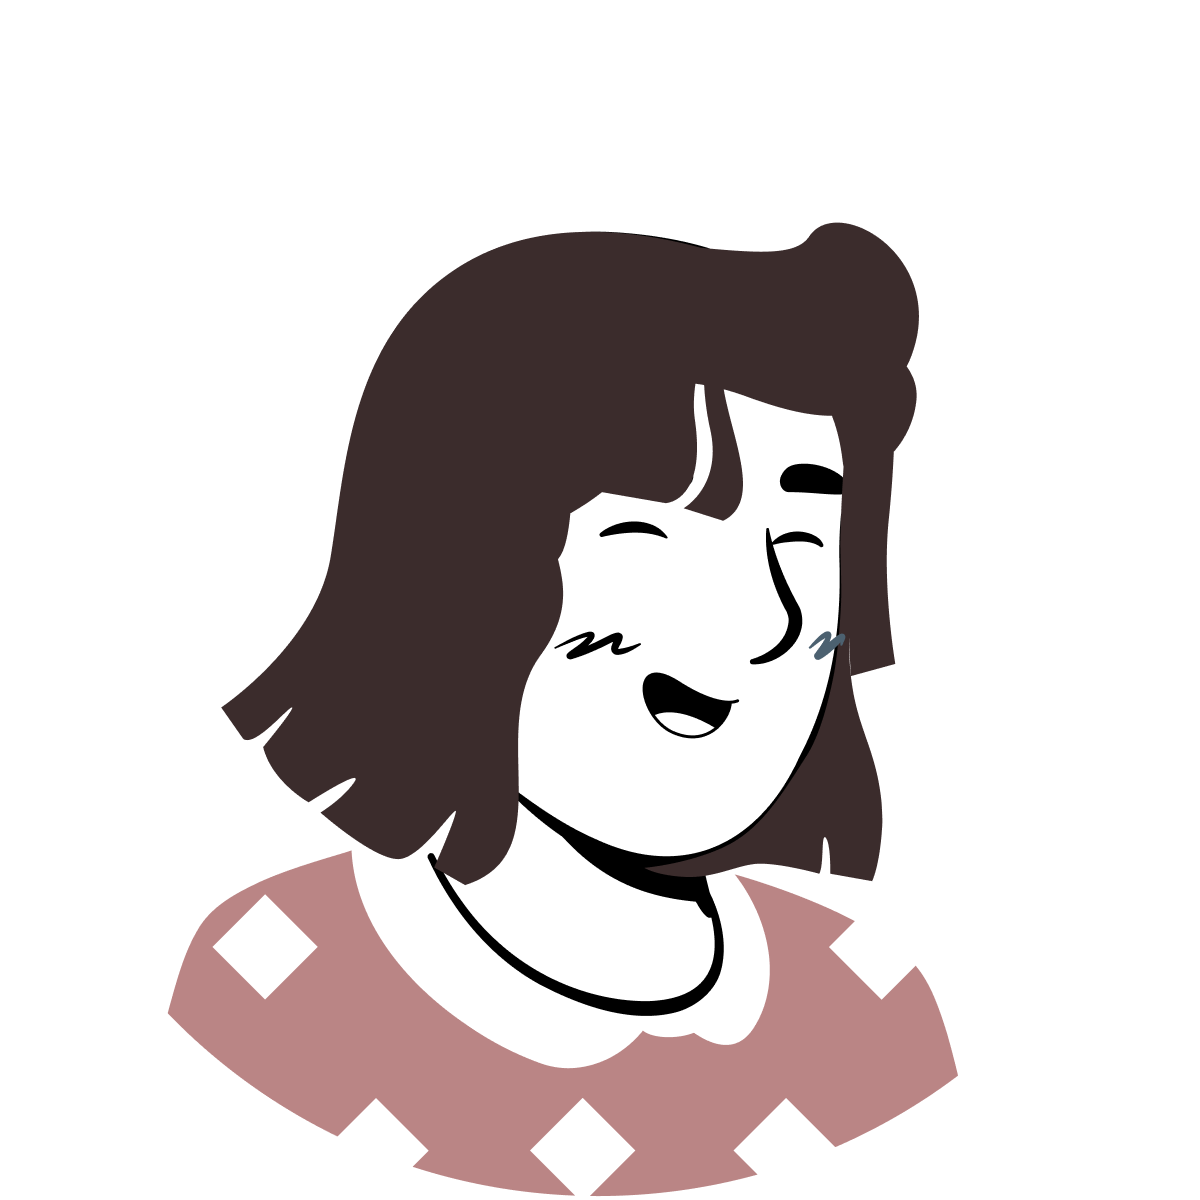
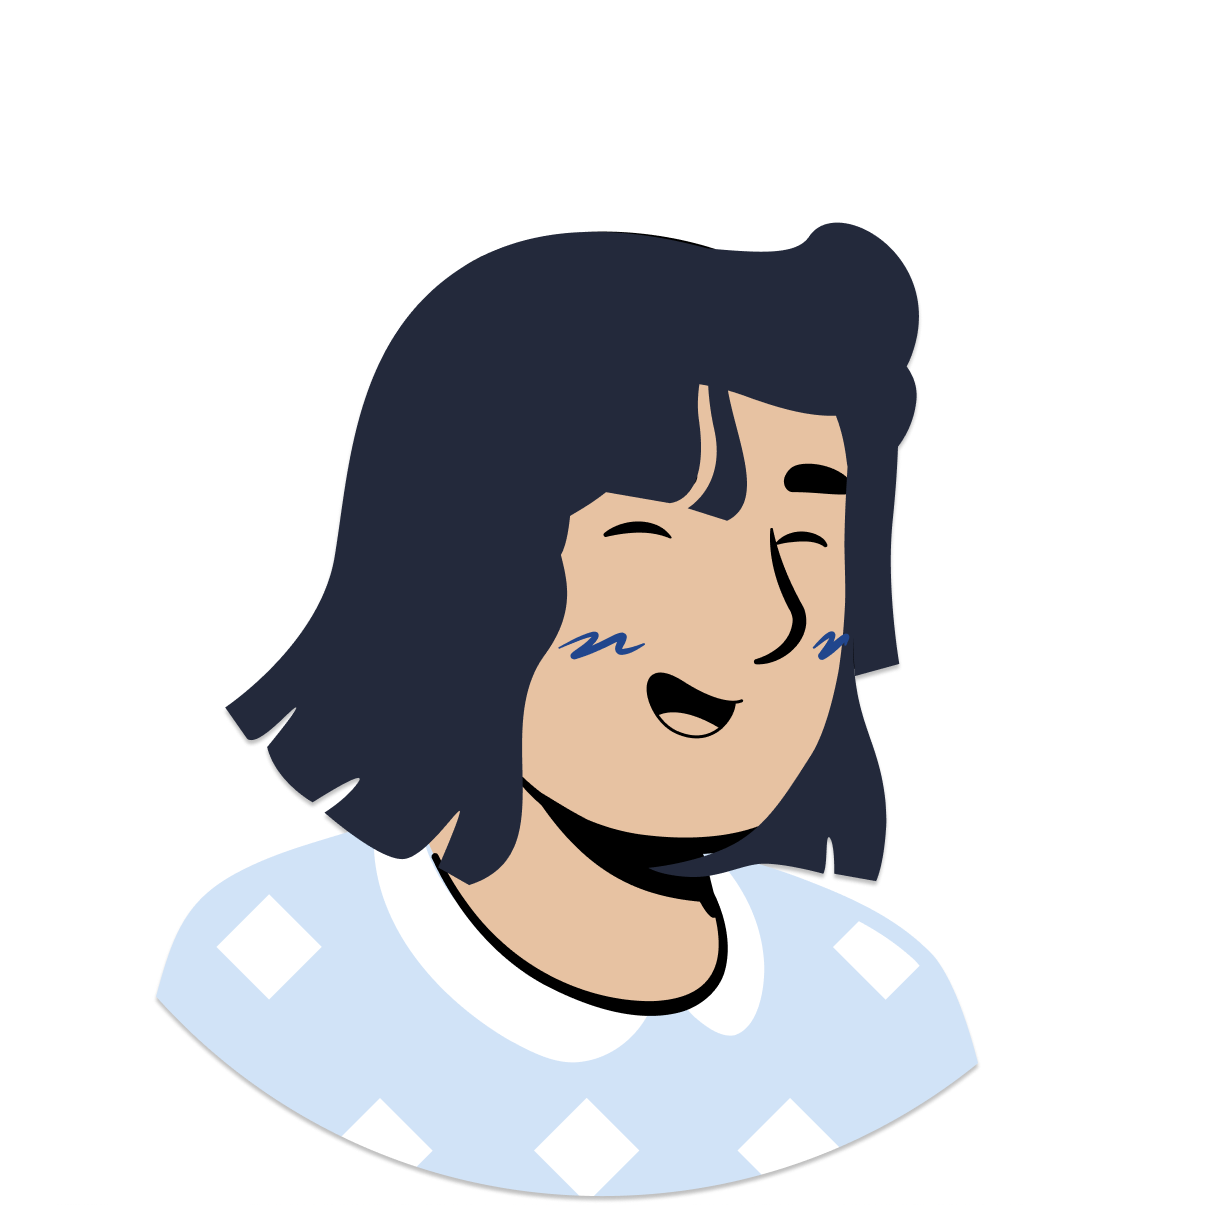
improve home ui

diff --git a/frontend/src/pages/home.jsx b/frontend/src/pages/home.jsx
@@ -1,7 +1,5 @@
 import React from "react";
-import cuteimg1 from "../assets/images/girl1.png";
-import cuteimg2 from "../assets/images/boy1.png";
-import cuteimg3 from "../assets/images/girl2.png";
+import girl from "../assets/images/girl2.png";
 import hometodo from "../assets/images/hometodo.png";
 export const Home = () => {
   return (
@@ -29,10 +27,8 @@ export const Home = () => {
         <div className="pt-5">
           <button className="btn btn-primary px-5 fw-bold">Get Started</button>
         </div>
-        <div className="img-container mt-6 mt-md-5">
-          <img src={cuteimg1} alt="" className="avatar" />
-          <img src={cuteimg2} alt="" className="avatar ms-n3 ms-md-n5" />
-          <img src={cuteimg3} alt="" className="avatar ms-n3 ms-md-n5" />
+        <div className="png-img-container mt-6 mt-md-5">
+          <img src={girl} alt="" className="avatar mb-n2 mb-md-n4" />
         </div>
         <div className="todo-img-container">
           <img

diff --git a/frontend/src/styles/style.scss b/frontend/src/styles/style.scss
@@ -143,6 +143,9 @@
     height: 7.5rem !important;
     width: 20rem !important;
   }
+  .png-img-container .mb-n2 {
+    margin-bottom: -0.7rem !important;
+  }
 }
 .todocard {
   box-shadow: rgba(100, 100, 111, 0.2) 0px 7px 29px 0px;
